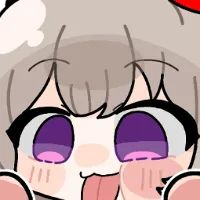
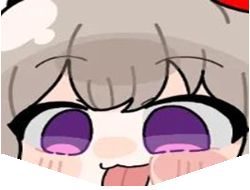
change character png and relic png but still has problem

diff --git a/src/main/java/umamusume/characters/Oguri.java b/src/main/java/umamusume/characters/Oguri.java
@@ -50,7 +50,7 @@ public class Oguri extends CustomPlayer {
         this.dialogY = (this.drawY + 150.0F * Settings.scale);
         // 初始化你的人物
         this.initializeClass(
-                "umaResources/img/char/shoulder1.png", // 人物图片
+                "umaResources/img/char/Oguri.png", // 人物图片
                 UMA_OGURI_SHOULDER_2, UMA_OGURI_SHOULDER_1,
                 COPRSE_IMAGE, // 人物死亡图像
                 this.getLoadout(),
